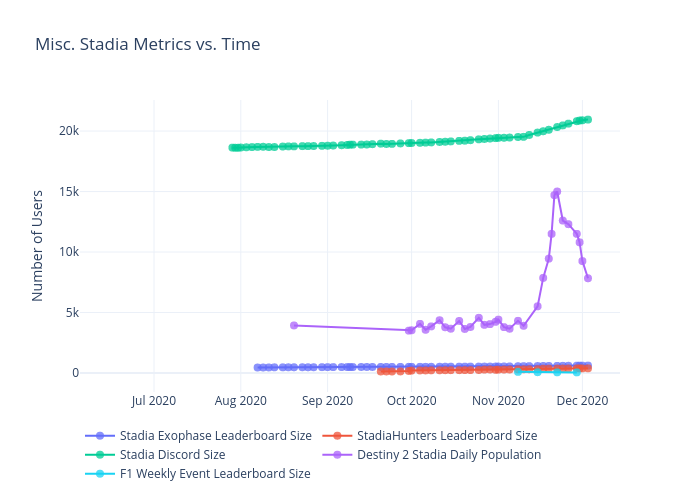
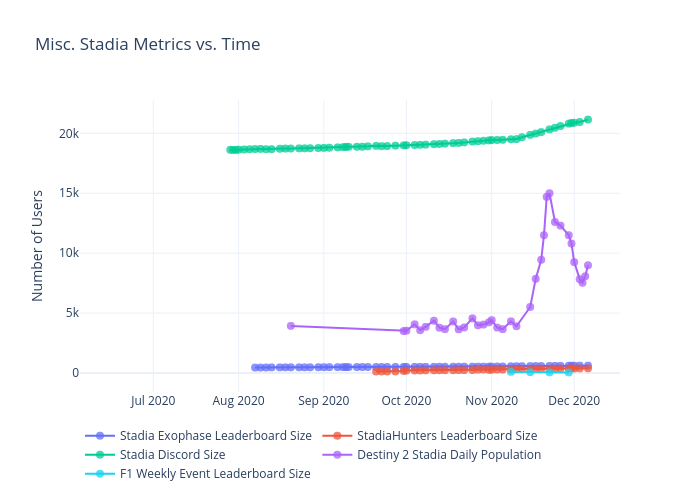
Add files via upload
Dec 6 data

diff --git a/misc/figure.js b/misc/figure.js
@@ -77,6 +77,8 @@ var figure = {
                 "2020-11-30",
                 "2020-12-01",
                 "2020-12-03",
+                "2020-12-04",
+                "2020-12-05",
                 "2020-12-06",
                 "2020-12-08",
                 "2020-12-10",
@@ -157,14 +159,18 @@ var figure = {
                 "604",
                 "607",
                 "608",
-                "611"
+                "611",
+                "",
+                "",
+                "613"
             ],
             "marker": {
                 "size": 8,
                 "opacity": 0.75
             },
             "stackgroup": null,
-            "connectgaps": true
+            "connectgaps": true,
+            "hovertemplate": "%{x}, %{y}"
         },
         {
             "meta": {
@@ -243,6 +249,8 @@ var figure = {
                 "2020-11-30",
                 "2020-12-01",
                 "2020-12-03",
+                "2020-12-04",
+                "2020-12-05",
                 "2020-12-06",
                 "2020-12-08",
                 "2020-12-10",
@@ -323,14 +331,18 @@ var figure = {
                 "377",
                 "377",
                 "380",
-                "384"
+                "384",
+                "",
+                "",
+                "387"
             ],
             "marker": {
                 "size": 8,
                 "opacity": 0.75
             },
             "stackgroup": null,
-            "connectgaps": true
+            "connectgaps": true,
+            "hovertemplate": "%{x}, %{y}"
         },
         {
             "meta": {
@@ -409,6 +421,8 @@ var figure = {
                 "2020-11-30",
                 "2020-12-01",
                 "2020-12-03",
+                "2020-12-04",
+                "2020-12-05",
                 "2020-12-06",
                 "2020-12-08",
                 "2020-12-10",
@@ -489,14 +503,18 @@ var figure = {
                 "20814",
                 "20868",
                 "20888",
-                "20946"
+                "20946",
+                "",
+                "",
+                "21149"
             ],
             "marker": {
                 "size": 8,
                 "opacity": 0.75
             },
             "stackgroup": null,
-            "connectgaps": true
+            "connectgaps": true,
+            "hovertemplate": "%{x}, %{y}"
         },
         {
             "meta": {
@@ -575,6 +593,8 @@ var figure = {
                 "2020-11-30",
                 "2020-12-01",
                 "2020-12-03",
+                "2020-12-04",
+                "2020-12-05",
                 "2020-12-06",
                 "2020-12-08",
                 "2020-12-10",
@@ -655,14 +675,18 @@ var figure = {
                 "11500",
                 "10800",
                 "9250",
-                "7830"
+                "7830",
+                "7530",
+                "8070",
+                "8990"
             ],
             "marker": {
                 "size": 8,
                 "opacity": 0.75
             },
             "stackgroup": null,
-            "connectgaps": true
+            "connectgaps": true,
+            "hovertemplate": "%{x}, %{y}"
         },
         {
             "meta": {
@@ -741,6 +765,8 @@ var figure = {
                 "2020-11-30",
                 "2020-12-01",
                 "2020-12-03",
+                "2020-12-04",
+                "2020-12-05",
                 "2020-12-06",
                 "2020-12-08",
                 "2020-12-10",
@@ -825,7 +851,8 @@ var figure = {
                 "opacity": 0.75
             },
             "stackgroup": null,
-            "connectgaps": true
+            "connectgaps": true,
+            "hovertemplate": "%{x}, %{y}"
         }
     ],
     "layout": {
@@ -835,8 +862,8 @@ var figure = {
         "xaxis": {
             "type": "date",
             "range": [
-                "2020-06-05 08:18:51.9421",
-                "2020-12-13 15:41:08.0579"
+                "2020-06-05 03:48:08.3882",
+                "2020-12-16 20:11:51.6118"
             ],
             "title": {
                 "text": ""
@@ -846,8 +873,8 @@ var figure = {
         "yaxis": {
             "type": "linear",
             "range": [
-                -1826.1449631449632,
-                22820.144963144965
+                -1540.5696022727273,
+                22737.569602272728
             ],
             "title": {
                 "text": "Number of Users"
